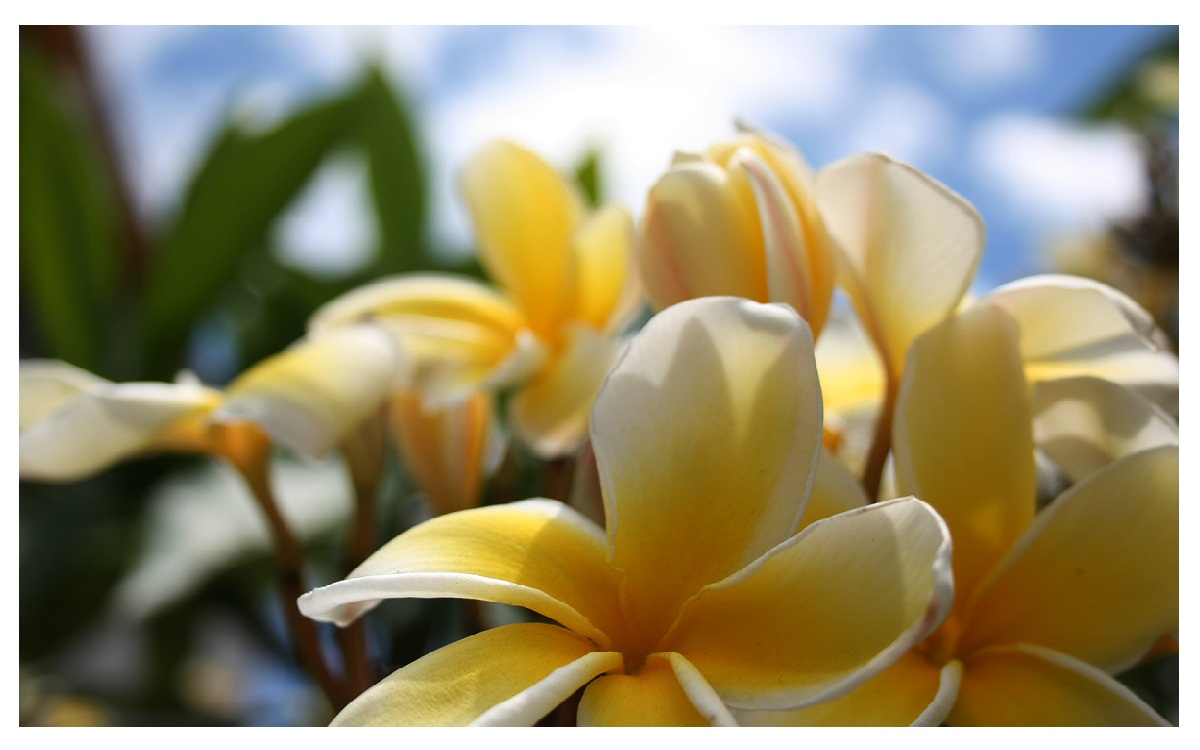
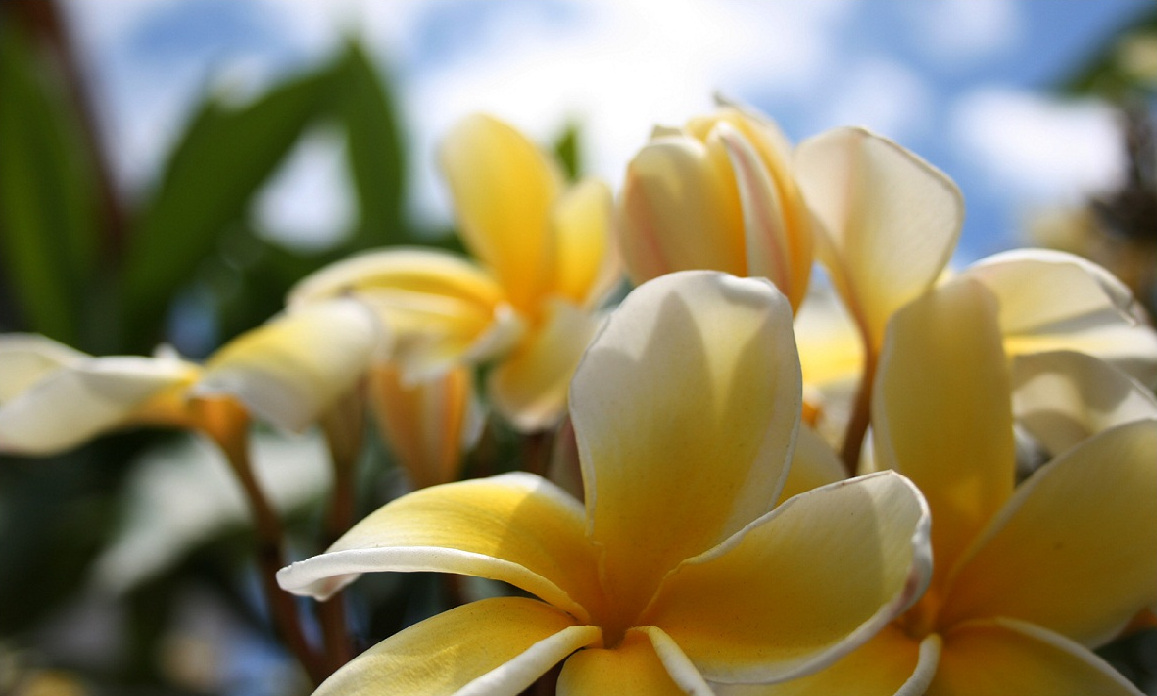
arreglo footer de expertise

diff --git a/sitio/css/expertise.css b/sitio/css/expertise.css
@@ -359,14 +359,12 @@ margin-left: 0%;
 position: relative;margin-top:8%;
 }
 
-#fotofinal .contenedorfloresamarillas {
+#contenedorfloresamarillas {
      visibility: visible; animation-name: zoomIn;
+    background-image: url(../images/48.jpg);
+    background-size: cover;
 }
 
-
-#fotofinal .contenedorfloresamarillas {
-width: 100%;
-}
 
 #susten6{
      margin-top: -50%;margin-left: 35px;

diff --git a/sitio/expertise.php b/sitio/expertise.php
@@ -211,39 +211,10 @@ insertar_servicio($textoe4, $textoe5);
 
 
 
-<div id="fotofinal" >
-    <div class="container">
-                        <div class="row" class="contenedorfloresamarillas"> 
-<img src="images/48.jpg" >
-                        </div>
-    </div>                    
+<?php  require 'footer.php';
+footer("fotofinal", "contenedorfloresamarillas", $fragancias, $textoe29);
 
-</div>
-
-
-<section id="susten">
-
-
- <div class="col-md-6" id="susten6">
-         <h1 ><?php echo $fragancias ?></h1>
-            <p class="textopsusten1" ><?php echo $textoe29 ?>
-            </p>
-
-        <img src="images/42.png" >      
-                
-</div>  
-
-
-
-
-
-</section>
-
-<div id="prefooter" >
-
-  <?php  require 'footer.php';?>
-  
-</div>
+?>
 
 </body>
 </html>
